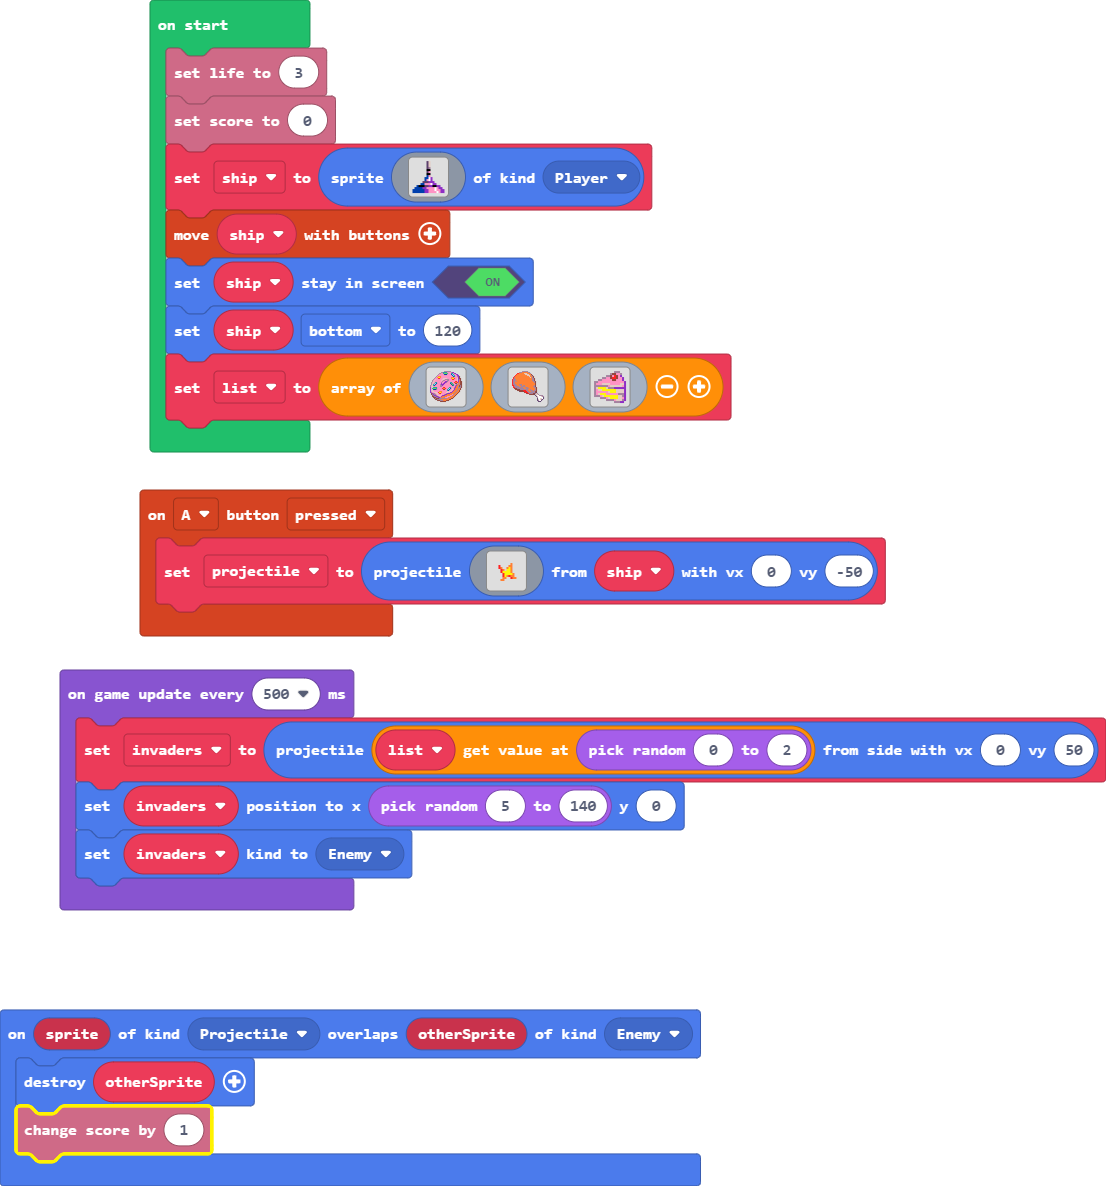
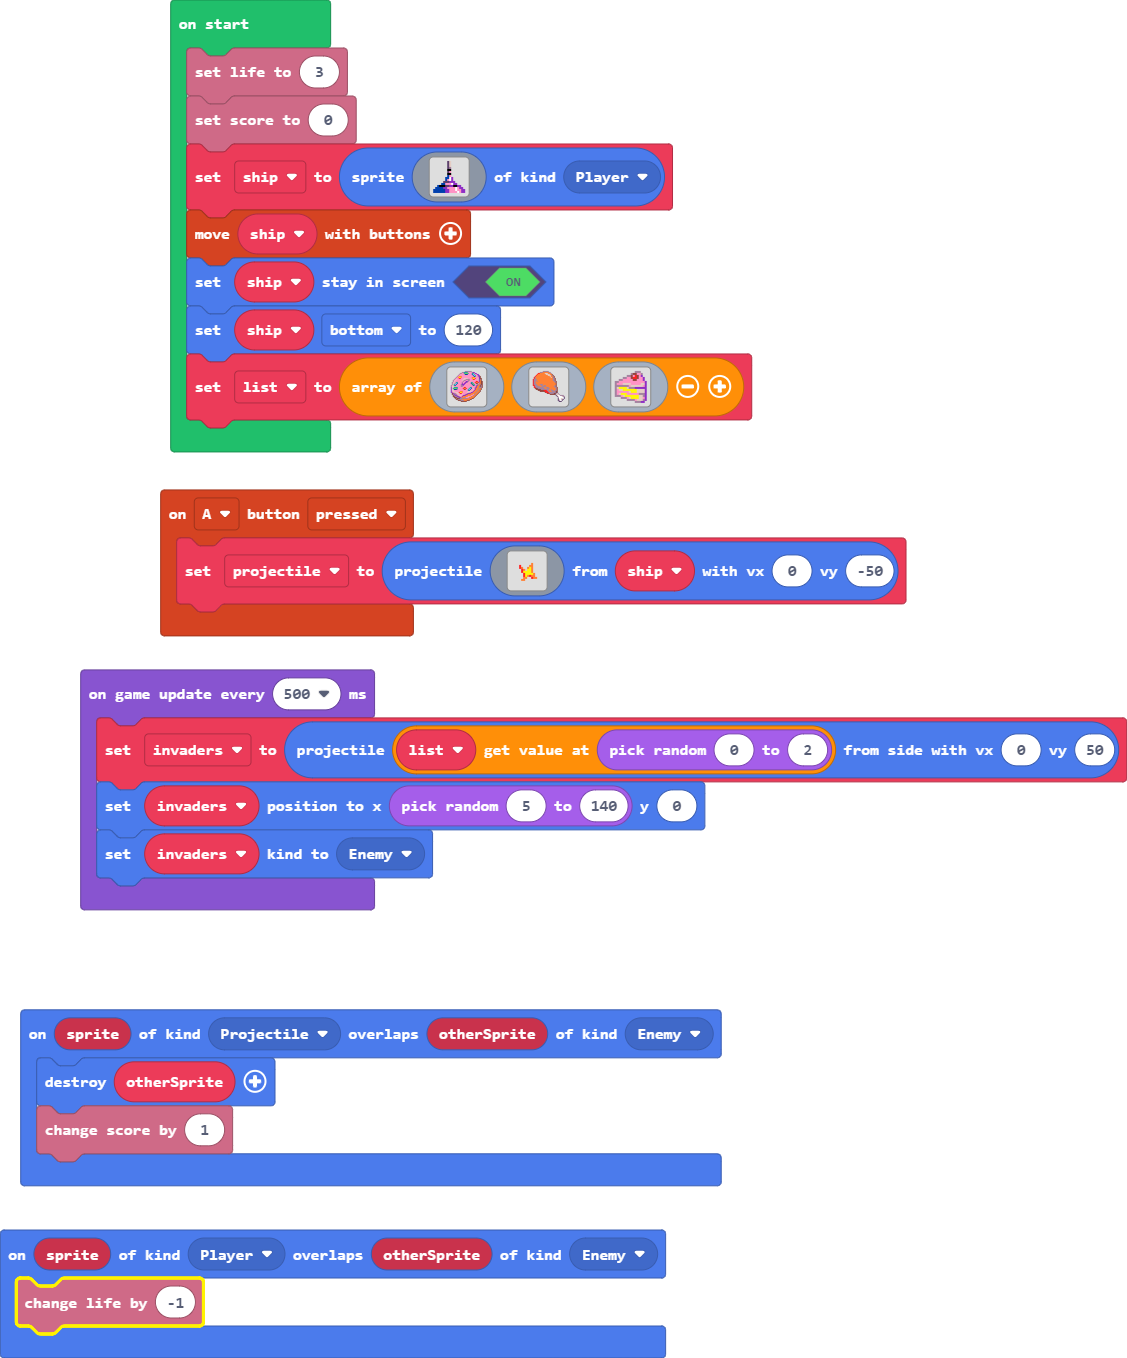
change life by -1

diff --git a/main.ts b/main.ts
@@ -22,6 +22,9 @@ sprites.onOverlap(SpriteKind.Projectile, SpriteKind.Enemy, function (sprite, oth
     sprites.destroy(otherSprite)
     info.changeScoreBy(1)
 })
+sprites.onOverlap(SpriteKind.Player, SpriteKind.Enemy, function (sprite, otherSprite) {
+    info.changeLifeBy(-1)
+})
 let invaders: Sprite = null
 let projectile: Sprite = null
 let ship: Sprite = null
